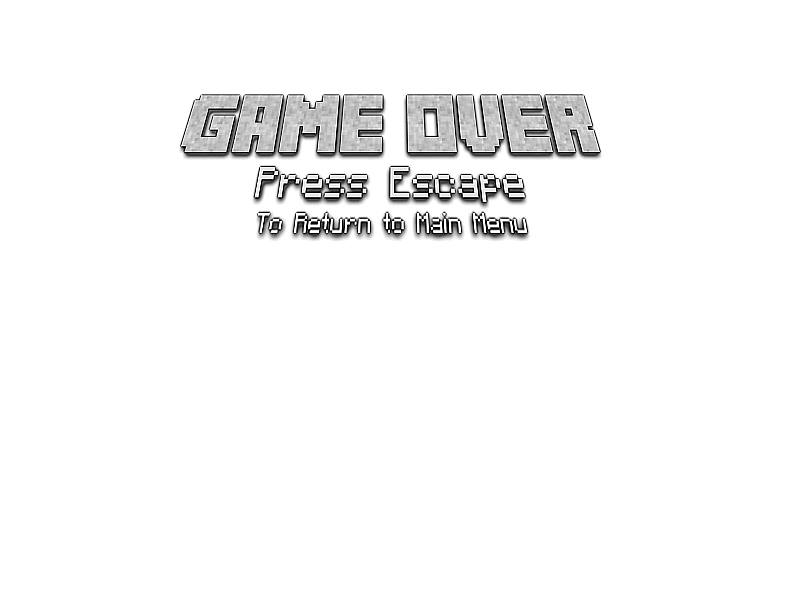
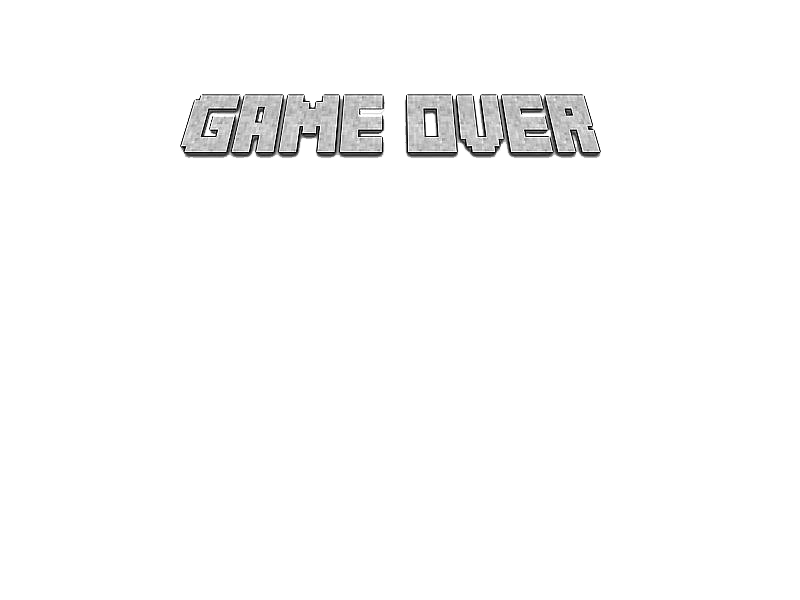
Added Gamestate, some final grapchical touches, Added mute music option

diff --git a/NinjaRacer/NinjaRacer/GameVisualization.cs b/NinjaRacer/NinjaRacer/GameVisualization.cs
@@ -31,6 +31,9 @@
         private const string HealthBonusImage = "healthBonus";
         private const string SmallRoadHoleImage = "smallRoadHole";
         private const string bigRoadHoleImage = "bigRoadHole";
+        private const string StartMenuImage = "StartGame";
+        private const string GameOverMenuImage = "EndGame";
+        private const string YouWinMenuImage = "Winner";
 
         private const string BonusColisionSoundFile = "bonus";
         private const string ObstacleColisionSoundFile = "obstacle";
@@ -42,7 +45,11 @@
         private const string EightBitFontFile = "8bitFont";
         private const string HelthBarBorderImage = "healthBarBorder";
         private const string HealthBarImage = "healthbar";
+        private const string ProgressCarFinishFlag = "FinishFlag";
         private const string ScoreBonusName = "ScoreBonus";
+
+        private const GameType defaultGameType = GameType.Menu;
+        private Vector2 menuImagePosition = new Vector2(0, 0);
 
         private readonly IMovable road = RoadMap.GetInstance();
 
@@ -108,11 +115,17 @@
 
         public GraphicsDeviceManager Graphics { get; private set; }
 
-        public object MenuImage { get; private set; }
+        public Texture2D MenuImage { get; private set; }
 
-        public object GameOverImage { get; private set; }
+        public Texture2D GameOverImage { get; private set; }
 
-        public object GameState { get; private set; }
+        public Texture2D YouWinImage { get; private set; }
+
+        public GameType GameState { get; private set; }
+
+        public bool DontPlayMusic { get; set; }
+
+        public bool MuteWasPressed { get; set; }
 
         private void AddGameObject(IRenderable rendableObject)
         {
@@ -186,11 +199,16 @@
         {
             this.spriteBatch = new SpriteBatch(GraphicsDevice);
 
+            this.GameState = defaultGameType;
+
             this.SoundManager.LoadContent(this.Content, BonusColisionSoundFile, ObstacleColisionSoundFile, GameTheamMusicFile);
 
+            MediaPlayer.Play(this.SoundManager.BGMusic);
             this.road.LoadContent(this.Content, BackgroundImage);
 
-            MediaPlayer.Play(this.SoundManager.BGMusic);
+            this.MenuImage = Content.Load<Texture2D>(StartMenuImage);
+            this.GameOverImage = Content.Load<Texture2D>(GameOverMenuImage);
+            this.YouWinImage = Content.Load<Texture2D>(YouWinMenuImage);
 
             this.player = new PlayerCar(
                 Content.Load<Texture2D>(CarImage),
@@ -199,7 +217,7 @@
             this.progressPlayer = new ProgressCar(Content.Load<Texture2D>(ProgressCarImage),
                 new Vector2(progressCarInitialX, progressCarInitialY), InitialProgressCarSpeed);
 
-            this.hud = new HUD(player, progressPlayer, EightBitFontFile, HelthBarBorderImage);
+            this.hud = new HUD(player, progressPlayer, EightBitFontFile, HelthBarBorderImage, ProgressCarFinishFlag);
             this.hud.LoadContent(this.Content, HealthBarImage);
         }
 
@@ -211,94 +229,143 @@
                 Exit();
             }
 
-            /*if (game.state == menu && keyboard.getstate().iskeydown(keys.enter))
+            //if (game.state == menu && keyboard.getstate().iskeydown(keys.enter))
             //    if (keyboard.getstate().iskeydown(keys.enter))
             //    {
-            //        mediaplayer.play(this.soundmanager.bgmusic);
             //    }
             //if (game.state == gameover)
-             else*/
-            if (Keyboard.GetState().IsKeyDown(Keys.Down))
+            //else
+            if (Keyboard.GetState().IsKeyDown(Keys.M))
             {
-                MediaPlayer.Stop();
-            }
-
-            try
-            {
-                if ((player.IsBeeingDamaged) && this.player.CurrentSpeed > 0)
+                if (!this.MuteWasPressed)
                 {
-                    if (!player.IsOutOfRoad)
-                    {
-                        SoundCaller obstacle = new SoundCaller(this.SoundManager.ObstacleSound);
-                    }
-
-                    player.Color = Color.Red;
-                    if (player.Score >= 1)
-                    {
-                        player.Score--;
-                    }
-
-                    player.Health--;
-                }
-                else
-                {
-                    player.Color = Color.White;
-                }
-
-                foreach (Obstacle obstacle in this.ObstaclesList)
-                {
-                    obstacle.DetectCollision(player);
-
-                    obstacle.Update(gameTime, this.player.CurrentSpeed);
+                    this.MuteWasPressed = true;
+                    this.DontPlayMusic = !this.DontPlayMusic;
                 }
             }
-            catch (CrashException)
+            else
             {
-                Exit();
+                this.MuteWasPressed = false;
+            }
+            if(!DontPlayMusic)
+            {
+                MediaPlayer.Resume();
+            }
+            else
+            {
+                MediaPlayer.Pause();
             }
 
-            foreach (IBonus bonus in this.BonusesList)
+            if (this.GameState == defaultGameType)
             {
-                if (player.BoundingBox.Intersects(bonus.BoundingBox))
+                if (Keyboard.GetState().IsKeyDown(Keys.Enter))
                 {
-
-                    if (bonus.GetType().Name == ScoreBonusName)
+                    this.GameState = GameType.Play;
+                }
+            }
+            else if (this.GameState == GameType.Play)
+            {
+                try
+                {
+                    if ((player.IsBeeingDamaged) && this.player.CurrentSpeed > 0)
                     {
-                        SoundCaller bonusCollected = new SoundCaller(this.SoundManager.BonusSound);
-                        player.Score += ScoreAndHealth.ScoreBonus;
-                        bonus.DestroyObject();
-                    }
-                    else if (player.Health < ScoreAndHealth.InitialPlayerHealth)
-                    {
-                        SoundCaller bonusCollected = new SoundCaller(this.SoundManager.BonusSound);
-                        player.Health += ScoreAndHealth.HealthBonus;
-                        if (player.Health > ScoreAndHealth.InitialPlayerHealth)
+                        if (!player.IsOutOfRoad)
                         {
-                            player.Health = ScoreAndHealth.InitialPlayerHealth; ;
+                            SoundCaller obstacle = new SoundCaller(this.SoundManager.ObstacleSound);
                         }
 
-                        bonus.DestroyObject();
+                        player.Color = Color.Red;
+                        if (player.Score >= 1)
+                        {
+                            player.Score--;
+                        }
+
+                        player.Health--;
+                    }
+                    else
+                    {
+                        player.Color = Color.White;
+                    }
+
+                    foreach (Obstacle obstacle in this.ObstaclesList)
+                    {
+                        obstacle.DetectCollision(player);
+
+                        obstacle.Update(gameTime, this.player.CurrentSpeed);
                     }
                 }
+                catch (CrashException)
+                {
+                    this.GameState = GameType.Crash;
+                }
 
-                bonus.Update(gameTime, this.player.CurrentSpeed);
+                foreach (IBonus bonus in this.BonusesList)
+                {
+                    if (player.BoundingBox.Intersects(bonus.BoundingBox))
+                    {
+
+                        if (bonus.GetType().Name == ScoreBonusName)
+                        {
+                            SoundCaller bonusCollected = new SoundCaller(this.SoundManager.BonusSound);
+                            player.Score += ScoreAndHealth.ScoreBonus;
+                            bonus.DestroyObject();
+                        }
+                        else if (player.Health < ScoreAndHealth.InitialPlayerHealth)
+                        {
+                            SoundCaller bonusCollected = new SoundCaller(this.SoundManager.BonusSound);
+                            player.Health += ScoreAndHealth.HealthBonus;
+                            if (player.Health > ScoreAndHealth.InitialPlayerHealth)
+                            {
+                                player.Health = ScoreAndHealth.InitialPlayerHealth; ;
+                            }
+
+                            bonus.DestroyObject();
+                        }
+                    }
+
+                    bonus.Update(gameTime, this.player.CurrentSpeed);
+                }
+                if(this.progressPlayer.PositionY == 0)
+                {
+                    this.GameState = GameType.End;
+                }
+                this.road.Update(gameTime, player.CurrentSpeed);
+                this.player.Update(gameTime);
+                this.LoadBonuses();
+                this.LoadObstacles();
+                this.hud.Update(gameTime, player.CurrentSpeed);
+
+                this.AddGameObject(this.road);
+                foreach (var item in BonusesList)
+                {
+                    this.AddGameObject(item);
+                }
+                this.AddGameObject(this.player);
+                this.AddGameObject(this.progressPlayer);
+                this.AddGameObject(this.hud);
+
             }
-
-            this.road.Update(gameTime, player.CurrentSpeed);
-            this.player.Update(gameTime);
-            this.LoadBonuses();
-            this.LoadObstacles();
-            this.hud.Update(gameTime, player.CurrentSpeed);
-
-            this.AddGameObject(this.road);
-            foreach (var item in BonusesList)
+            else if(this.GameState == GameType.Crash)
             {
-                this.AddGameObject(item);
+                if (Keyboard.GetState().IsKeyDown(Keys.Enter))
+                {
+                    Exit();
+                }
             }
-            this.AddGameObject(this.player);
-            this.AddGameObject(this.progressPlayer);
-            this.AddGameObject(this.hud);
-
+            else if(this.GameState == GameType.End)
+            {
+                if (Keyboard.GetState().IsKeyDown(Keys.Enter))
+                {
+                    Exit();
+                }
+            }
+            else if(this.GameState == GameType.End)
+            {
+                if (Keyboard.GetState().IsKeyDown(Keys.Enter))
+                {
+                    Exit();
+                }
+            }
 
             base.Update(gameTime);
         }
@@ -309,20 +376,34 @@
 
             this.spriteBatch.Begin();
 
-            this.road.Draw(this.spriteBatch);
-
-            foreach (IObstacle obstacle in this.ObstaclesList)
+            if(this.GameState == defaultGameType)
             {
-                obstacle.Draw(this.spriteBatch);
+                spriteBatch.Draw(this.MenuImage, menuImagePosition);
             }
-
-            foreach (IBonus bonus in this.BonusesList)
+            else if (this.GameState == GameType.Play)
             {
-                bonus.Draw(this.spriteBatch);
-            }
+                this.road.Draw(this.spriteBatch);
 
-            player.Draw(this.spriteBatch);
-            hud.Draw(this.spriteBatch);
+                foreach (IObstacle obstacle in this.ObstaclesList)
+                {
+                    obstacle.Draw(this.spriteBatch);
+                }
+
+                foreach (IBonus bonus in this.BonusesList)
+                {
+                    bonus.Draw(this.spriteBatch);
+                }
+                player.Draw(this.spriteBatch);
+                hud.Draw(this.spriteBatch);
+            }
+            else if(this.GameState == GameType.Crash)
+            {
+                spriteBatch.Draw(this.GameOverImage, menuImagePosition);
+            }
+            else if(this.GameState == GameType.End)
+            {
+                spriteBatch.Draw(this.YouWinImage, menuImagePosition);
+            }
             this.spriteBatch.End();
             base.Draw(gameTime);
         }

diff --git a/NinjaRacer/NinjaRacer/SoundsAndVisuals/HUD.cs b/NinjaRacer/NinjaRacer/SoundsAndVisuals/HUD.cs
@@ -16,6 +16,7 @@
         private readonly Vector2 playerSpeedPosition = new Vector2(Graphic.PlayerSpeedX, Graphic.PlayerSpeedY);
         private readonly string fontName;
         private readonly string healthBarBorderBoxName;
+        private readonly string progressCarFinishLine;
         private int acceleration = 0;
 
         private IPlayer player;
@@ -29,15 +30,18 @@
             this.Font = null;
         }
 
-        internal HUD(IPlayer player, ProgressCar progressPlayer, string fontName, string healthBarBorderBoxFileName)
+        internal HUD(IPlayer player, ProgressCar progressPlayer, string fontName, string healthBarBorderBoxFileName, string progressCarFinishLine)
             : this(player, progressPlayer, fontName)
         {
+            this.progressCarFinishLine = progressCarFinishLine;
             this.healthBarBorderBoxName = healthBarBorderBoxFileName;
         }
 
         public Texture2D Texture { get; private set; }
 
         public Texture2D HealthBarBorderBox { get; private set; }
+
+        public Texture2D ProgressCarFinishFlag { get; private set; }
 
         public Rectangle BoundingBox
         {
@@ -82,6 +86,10 @@
             {
                 this.HealthBarBorderBox = content.Load<Texture2D>(this.healthBarBorderBoxName);
             }
+            if(this.progressCarFinishLine != null)
+            {
+                this.ProgressCarFinishFlag = content.Load<Texture2D>(this.progressCarFinishLine);
+            }
         }
 
         public void Update(GameTime gameTime, int currentSpeed)
@@ -115,6 +123,13 @@
                 spriteBatch.Draw(
                     this.HealthBarBorderBox,
                     new Vector2(Graphic.HealthBarBorderCoordX, Graphic.HealthBarBorderCoordY));
+            }
+
+            if(this.ProgressCarFinishFlag != null)
+            {
+                spriteBatch.Draw(
+                    this.ProgressCarFinishFlag,
+                    new Vector2(Graphic.ProgressCarFinishPositionX, Graphic.ProgressCarFinishPositionY));
             }
 
             spriteBatch.Draw(this.Texture, this.BoundingBox, Color.White);

diff --git a/NinjaRacer/NinjaRacer/Infrastructure/Constants/Graphic.cs b/NinjaRacer/NinjaRacer/Infrastructure/Constants/Graphic.cs
@@ -20,7 +20,9 @@
         public const int ScoreCoordY = 50;
         public const int PlayerSpeedX = 620;
         public const int PlayerSpeedY = 500;
-        public const int PlayerProgressPositionX = 5;
+        public const int PlayerProgressPositionX = 9;
         public const int PlayerProgressPositionY = 530;
+        public const int ProgressCarFinishPositionX = 0;
+        public const int ProgressCarFinishPositionY = 0;
     }
 }

diff --git a/NinjaRacer/NinjaRacer/Infrastructure/Enum/GameType.cs b/NinjaRacer/NinjaRacer/Infrastructure/Enum/GameType.cs
@@ -4,6 +4,7 @@
     {
         Menu,
         Play,
+        Crash,
         End
     }
 }
